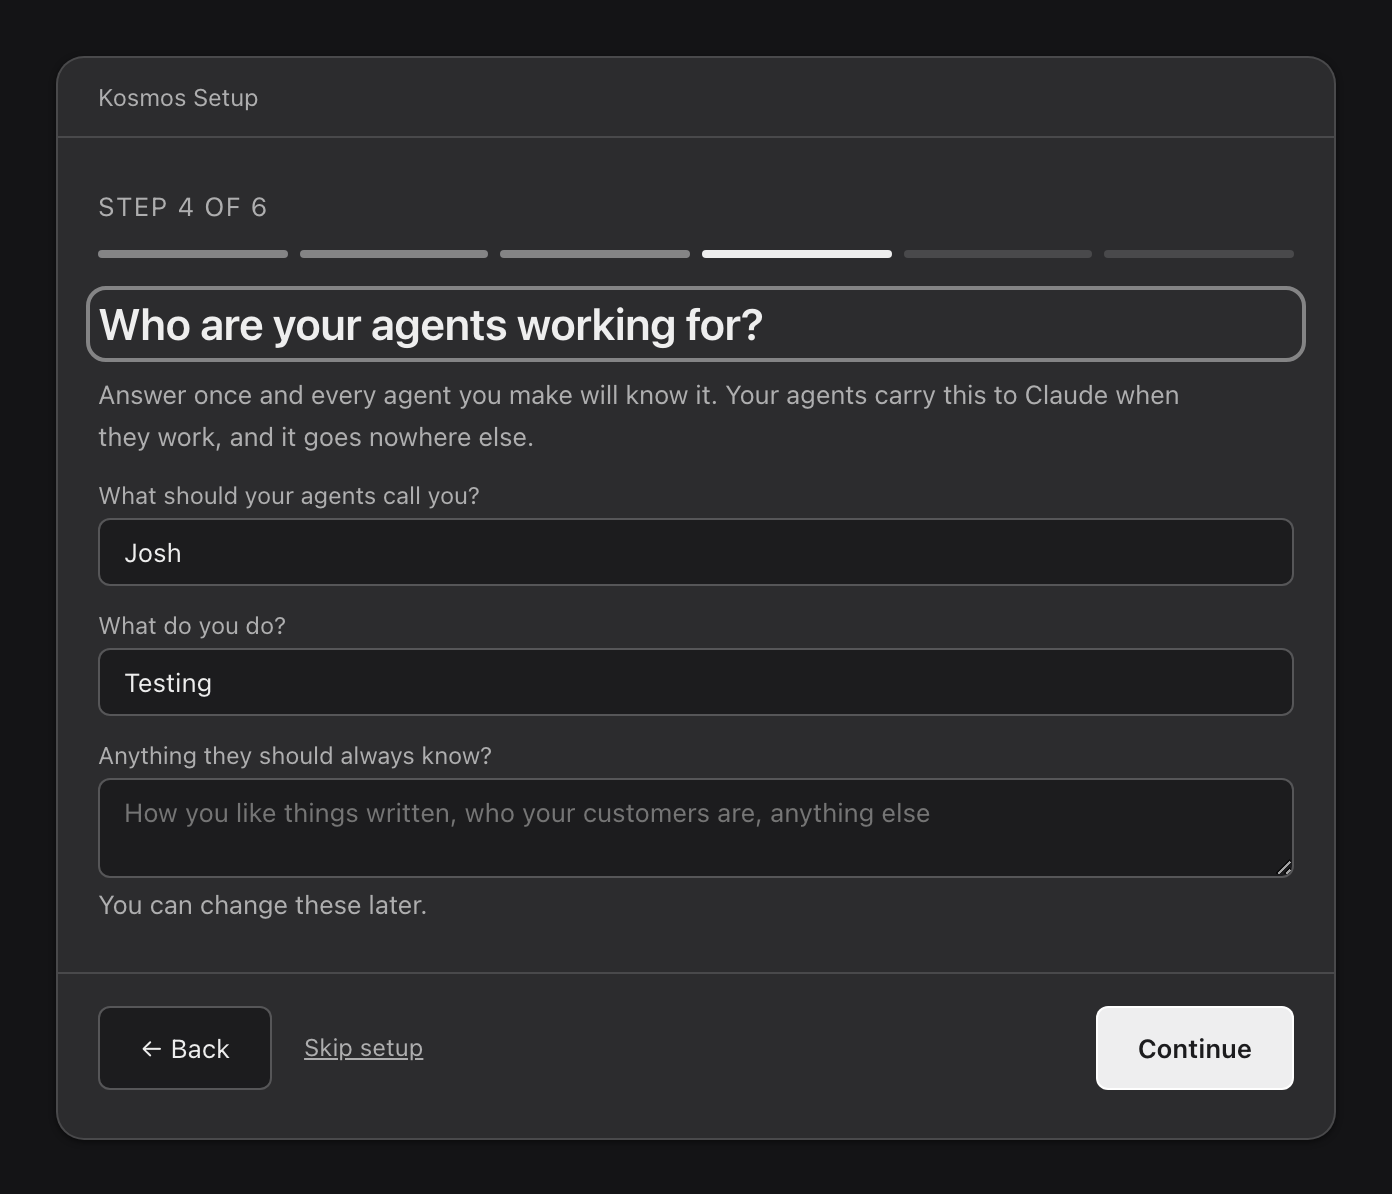
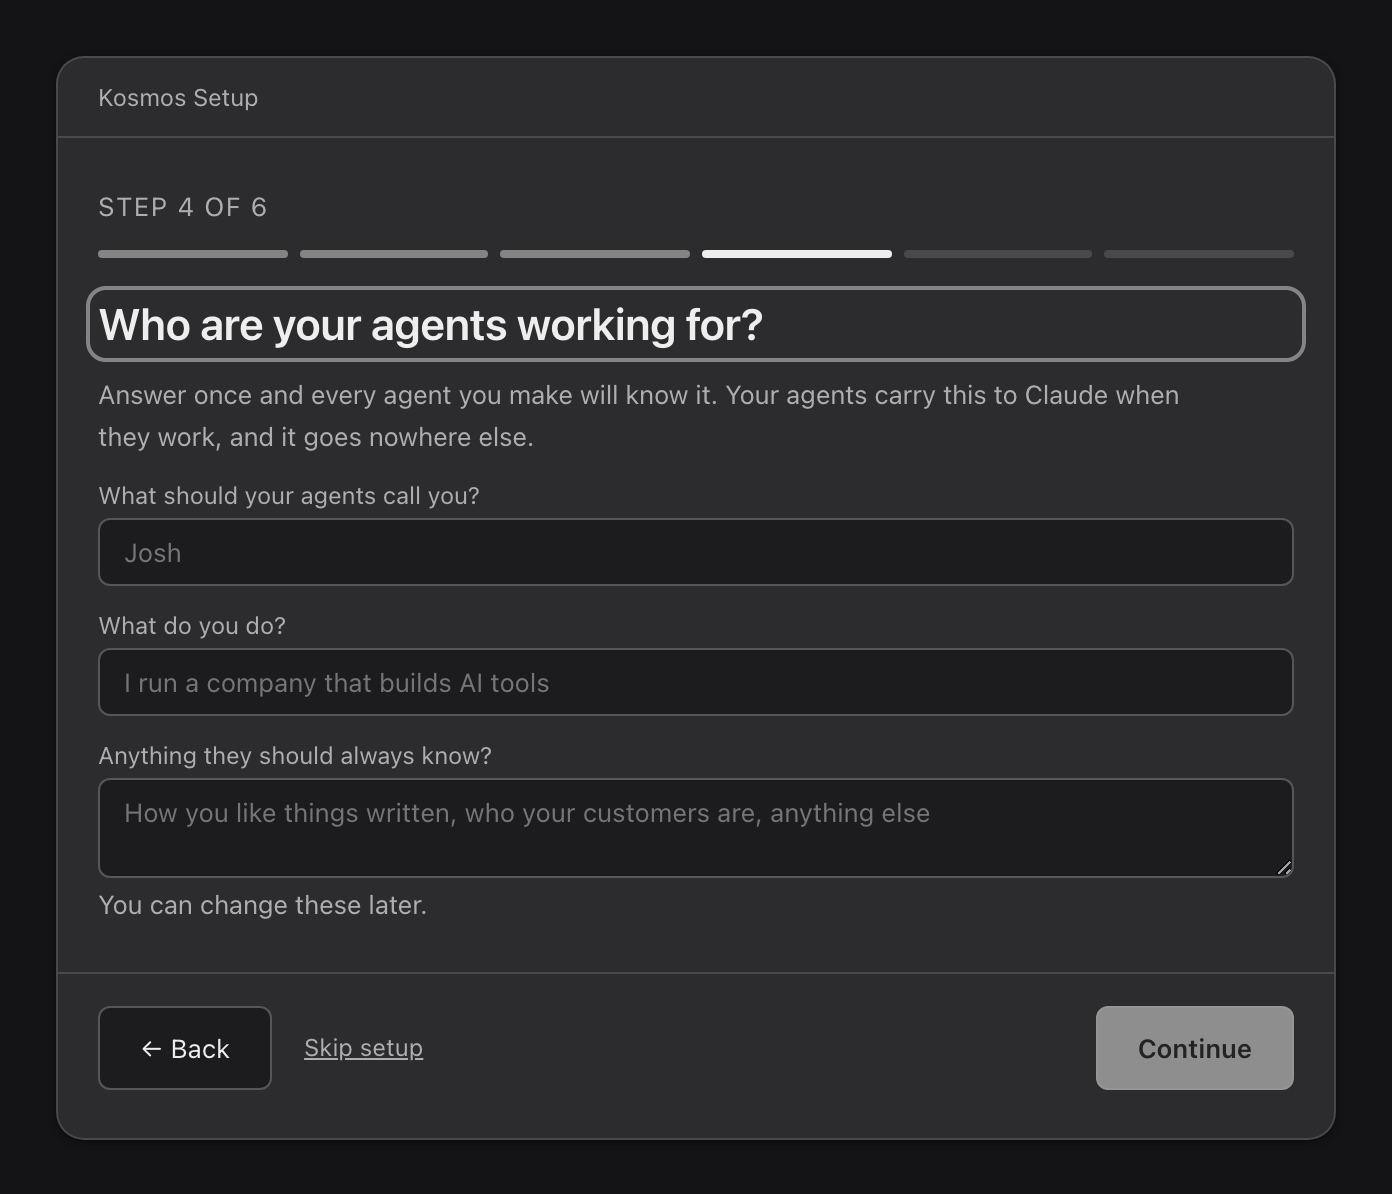
you-context -- address challenge-loop iteration 3 findings

Changed region(s): [[0.7723, 0.8367, 0.9267, 0.9296], [0.0927, 0.5578, 0.4016, 0.5888], [0.0927, 0.4338, 0.1236, 0.4648]]

diff --git a/web/index.html b/web/index.html
@@ -1379,7 +1379,8 @@ svg { display: block; }
 
       <!-- ⚠ OUTSIDE THE PANES, and that is the whole point of it. This is the
            only message on this screen that can be raised from ANY step — Skip
-           is on all five — so putting it inside step 4's pane, which is where
+           is on every one — so putting it inside the fork pane (fr-pane-5
+           since About-you landed at 4), which is where
            it started, meant a person who skipped from the welcome screen was
            told nothing at all: the sentence was written into a hidden div.
            `alert`, because it is the one thing here somebody must not walk away
@@ -7955,13 +7956,18 @@ async function frPaintYou() {
   const doEl = document.getElementById('fr-you-do');
   const knowEl = document.getElementById('fr-you-know');
   const next = document.getElementById('fr-next');
+  // ⚠ `saving` participates in the gate, so a late prefill's gate() cannot
+  // re-arm the button while the PUT is in flight (the double-submit window
+  // the disable at the top of Continue exists to close).
+  let saving = false;
   const gate = () => {
-    const ready = nameEl.value.trim() !== '' && doEl.value.trim() !== '';
+    const ready = !saving && nameEl.value.trim() !== '' && doEl.value.trim() !== '';
     next.disabled = !ready;
     next.setAttribute('aria-disabled', ready ? 'false' : 'true');
   };
   frActions({ label: 'Continue', go: async () => {
     if (next.disabled) return;
+    saving = true;
     next.disabled = true;
     next.setAttribute('aria-disabled', 'true');
     try {
@@ -7980,6 +7986,7 @@ async function frPaintYou() {
       if (entry !== FR_YOU_GEN) return;
       if (!res.ok) {
         // The route's own sentence, verbatim — it says what to fix.
+        saving = false;
         document.getElementById('fr-you-msg').textContent = (j && j.error) || 'we could not save that';
         gate();
         return;
@@ -7987,6 +7994,7 @@ async function frPaintYou() {
       frGo(5);
     } catch {
       if (entry !== FR_YOU_GEN) return;
+      saving = false;
       document.getElementById('fr-you-msg').textContent = 'we could not save that';
       gate();
     }
@@ -8210,7 +8218,7 @@ async function frRecheck() {
     const fresh = await res.json();
     // ⚠ The WHOLE answer is replaced, not just the subscription. The fleet can
     // have changed too while somebody was away signing in, and half-updating it
-    // would leave step 4 describing a machine as it was several minutes ago.
+    // would leave the fleet screen describing a machine as it was several minutes ago.
     FR = fresh;
     /**
      * ⚠ ONLY REPAINT IF THEY ARE STILL HERE. `/api/first-run` shells out to

diff --git a/docs/browser-checks/click-first-run.js b/docs/browser-checks/click-first-run.js
@@ -178,7 +178,7 @@ async function fresh(browser, opts = {}) {
   console.log('\n5. A first-run route that fails does NOT put onboarding over a working board');
   {
     fs.rmSync(FLAG, { force: true });
-  fs.rmSync(YOU, { force: true });
+    fs.rmSync(YOU, { force: true });
     const ctx = await browser.newContext({ viewport: { width: 1280, height: 900 } });
     const page = await ctx.newPage();
     page.on('pageerror', (e) => fails.push('JS ERROR: ' + e.message));
@@ -246,7 +246,7 @@ async function fresh(browser, opts = {}) {
   console.log('\n9. Escape during an in-flight completion does not fire two of them');
   {
     fs.rmSync(FLAG, { force: true });
-  fs.rmSync(YOU, { force: true });
+    fs.rmSync(YOU, { force: true });
     const ctx = await browser.newContext({ viewport: { width: 1280, height: 900 } });
     const page = await ctx.newPage();
     page.on('pageerror', (e) => fails.push('JS ERROR: ' + e.message));
@@ -283,7 +283,7 @@ async function fresh(browser, opts = {}) {
   console.log('\n10. A completion POST that never answers does not lock anybody in');
   {
     fs.rmSync(FLAG, { force: true });
-  fs.rmSync(YOU, { force: true });
+    fs.rmSync(YOU, { force: true });
     const ctx = await browser.newContext({ viewport: { width: 1280, height: 900 } });
     const page = await ctx.newPage();
     page.on('pageerror', (e) => fails.push('JS ERROR: ' + e.message));

diff --git a/docs/browser-checks/render-first-run.js b/docs/browser-checks/render-first-run.js
@@ -148,7 +148,11 @@ const SHOTS = [
   { name: 'firstrun-3-claude-connected', step: 3, first: FLEET_ADOPT },
   { name: 'firstrun-3-claude-none', step: 3, first: SUB_NONE },
   { name: 'firstrun-3-claude-unsure', step: 3, first: SUB_UNSURE },
-  { name: 'firstrun-4-about-you', step: 4 },
+  // The record stubbed ABSENT: the click drive leaves a saved record in the
+  // same sandbox, and without the stub this shot's content depends on which
+  // drive ran last (prefilled-and-armed versus the empty gated state the
+  // name claims).
+  { name: 'firstrun-4-about-you', step: 4, you: { state: 'absent', you: null, because: null } },
   { name: 'firstrun-5-adopt', step: 5, first: FLEET_ADOPT },
   { name: 'firstrun-5-create', step: 5, first: FLEET_CREATE },
   { name: 'firstrun-5-cannot-see', step: 5, first: FLEET_BLIND },
@@ -325,6 +329,9 @@ async function look(page, name) {
       }
       if (shot.first) {
         await page.route('**/api/first-run', (r) => r.fulfill({ json: shot.first }));
+      }
+      if (shot.you) {
+        await page.route('**/api/you', (r) => r.fulfill({ json: shot.you }));
       }
       // The hanging-route shot can never reach networkidle -- the stalled
       // machine request IS the state under test.

diff --git a/engine/you.js b/engine/you.js
@@ -32,6 +32,10 @@ const store = require('./store');
 const instructions = require('./instructions');
 const projects = require('./projects');
 
+// Same layout convention as commitments.js: under a sandbox the env var IS
+// the base (you.json sits directly in $AGENT_WORKFORCE_DATA), while in
+// production store.ROOT carries the AgentWorkforce segment. The click
+// drive's grandparent derivation depends on the sandboxed shape.
 const BASE = process.env.AGENT_WORKFORCE_DATA || store.ROOT;
 const FILE = path.join(BASE, 'you.json');
 
